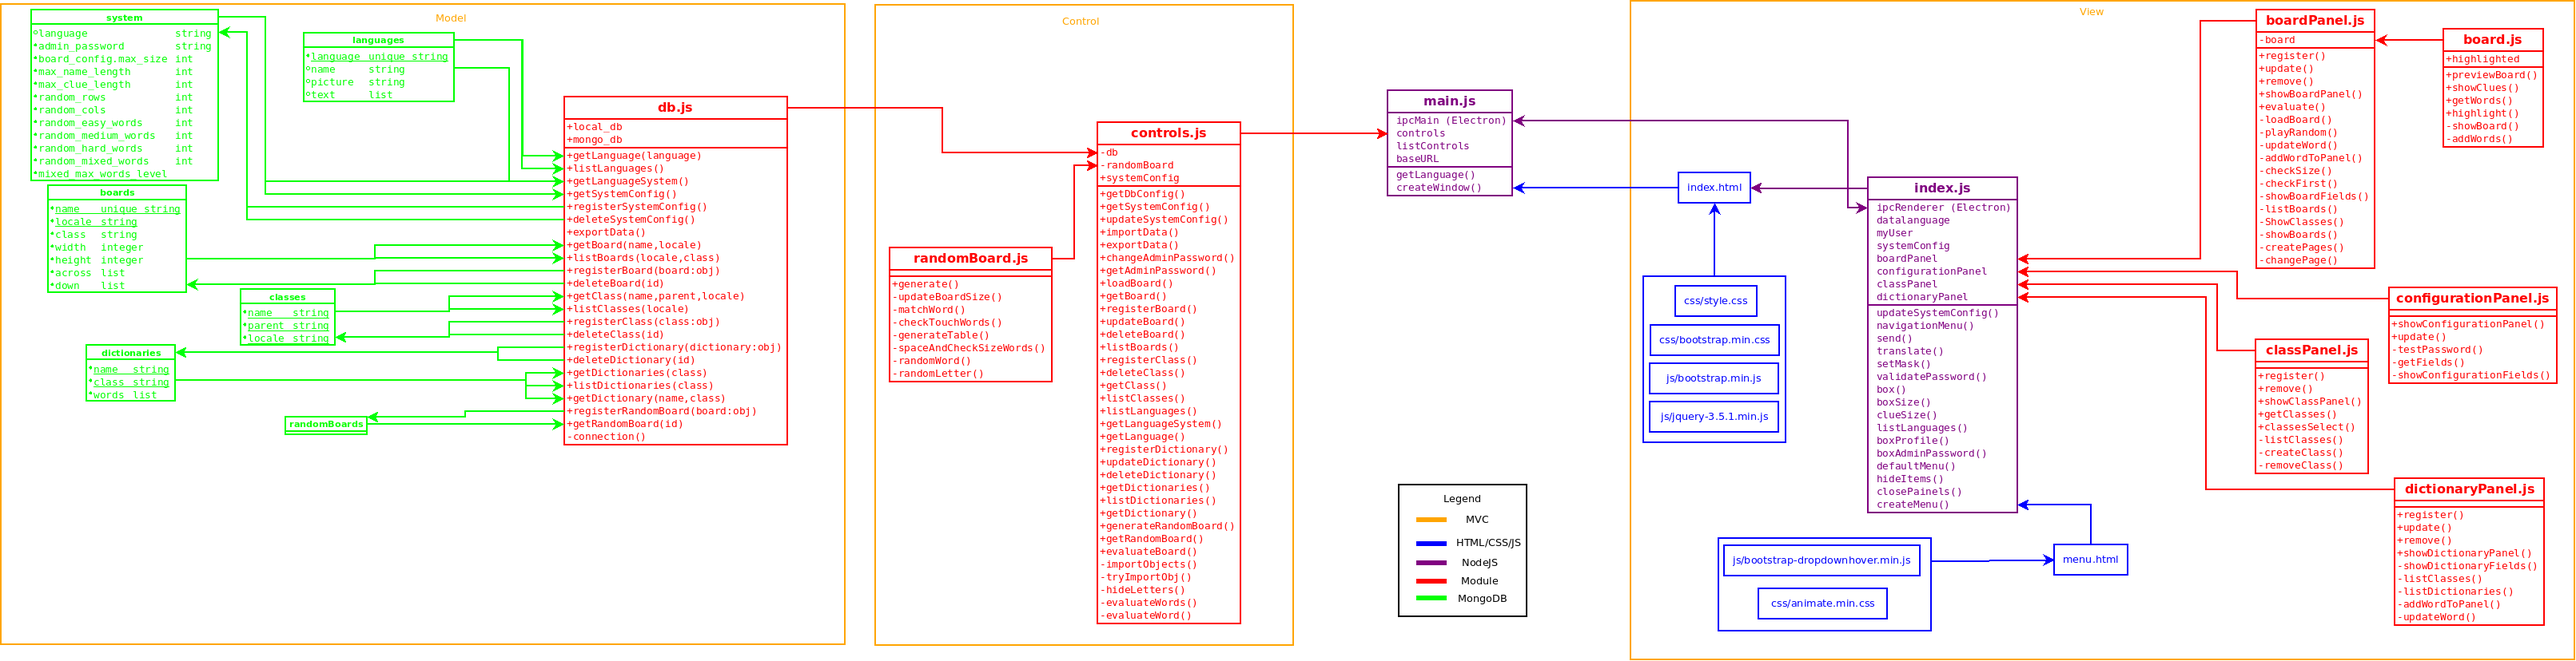
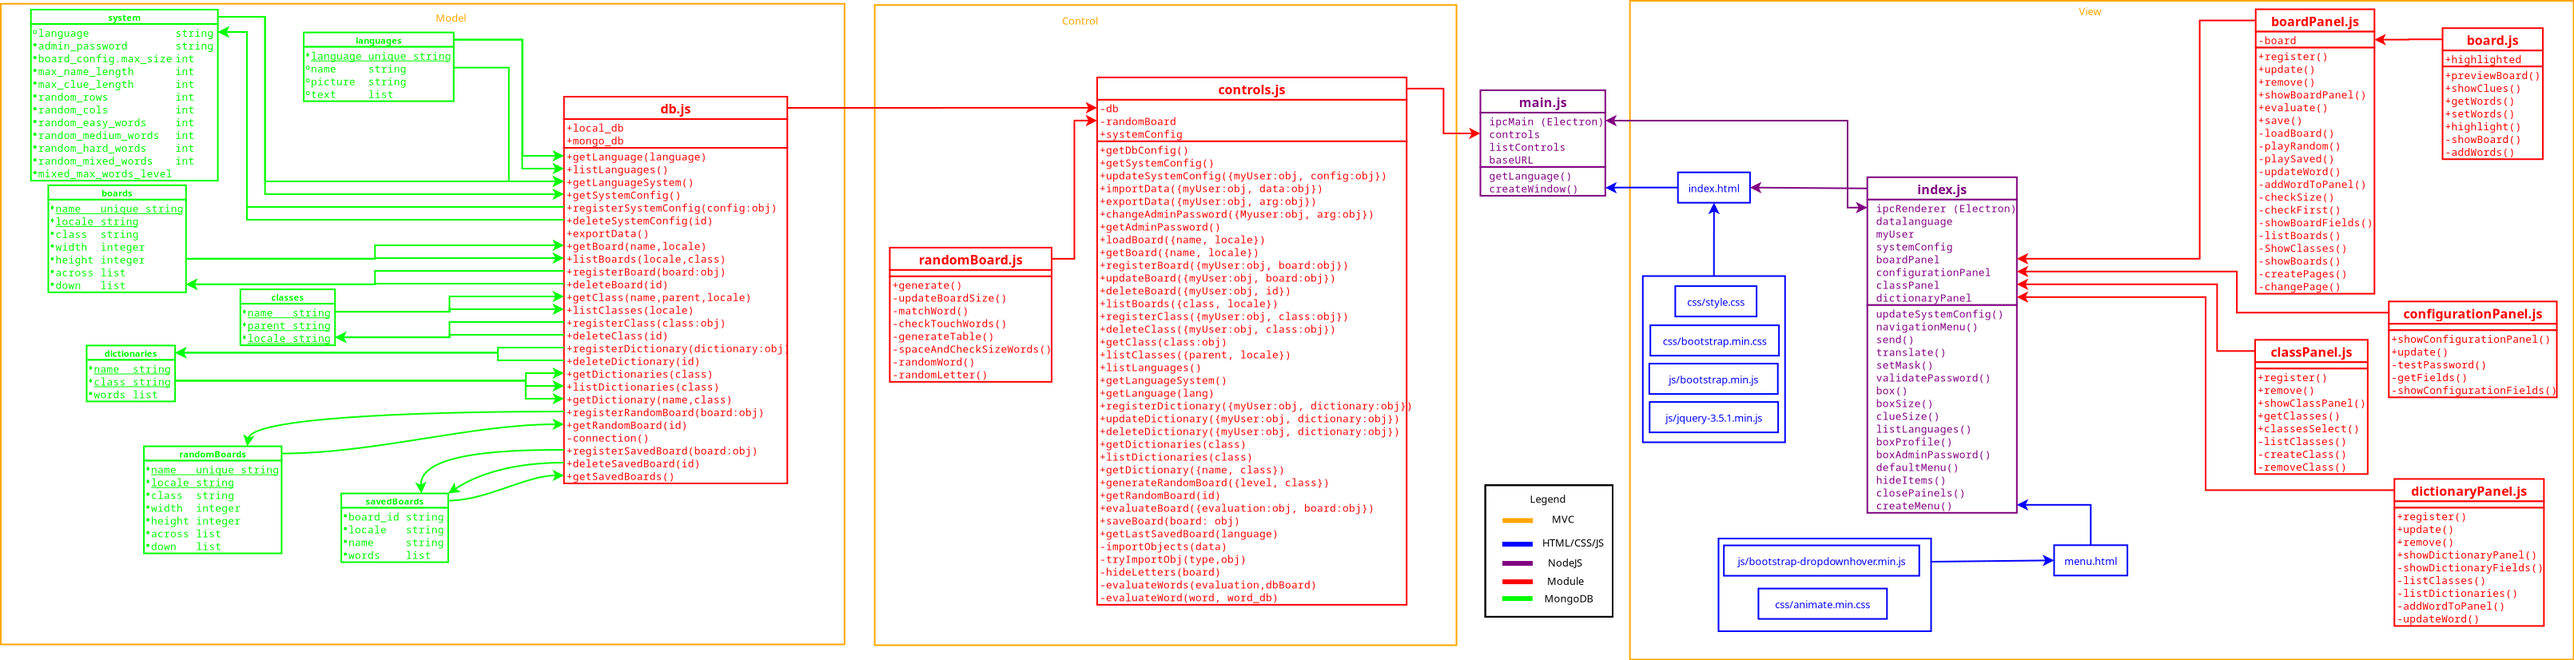
Version 1.1.0 updated with saved board to continue playing.

diff --git a/View/boardPanel.js b/View/boardPanel.js
@@ -1,3 +1,10 @@
+//TODO:
+//ao fechar tabuleiro ou sair do programa, salvar as palavras escritar para poder voltar a jogar posteriormente.
+
+//ao desistir de completar o tabuleiro, colocar a opção de exibir todas as palavras
+//reflexão: até que ponto o usuário é confiável e não vai usar este recurso para colar e se sabotar para tirar uma nota boa?
+//habilitar esta opção somente quando for registrar a nota no login do usuário?
+
 board = require('./board.js')
 
 module.exports = {
@@ -74,6 +81,10 @@ module.exports = {
   evaluate: () => {
     box(datalanguage['confirm'], datalanguage['askevaluate'], () => {
       board.getWords( (this_board) => {
+        for(w=this_board.words.length-1;w>0;w--)
+          if(typeof this_board.words[w].tick != undefined && this_board.words[w].tick == 'true')
+            this_board.words.splice(w, 1)
+
         ipcRenderer.send('evaluate-board', {"board": this_board, "evaluation": board.evaluation})
         ipcRenderer.once('evaluate-board', function(event, result){
           msg = result[0]
@@ -89,14 +100,23 @@ module.exports = {
           board.highlighted = 0
 
           //close if all words are correct
-          if(board.evaluation.correct_words.length == preview_board.total)
-            closePainels()
+          //if(board.evaluation.correct_words.length == preview_board.total)
+          //  closePainels()
 
           message = '<b>'+datalanguage['evaluationresult'].replace('{correct}', board.evaluation.correct_words.length).replace('{total}', preview_board.total)+'<br>'+datalanguage['score']
           +': '+board.evaluation.score+'</b><br/>'+datalanguage[msg]
           if(msg == 'tryagain' || msg == 'congratulations')
             box(datalanguage['evaluation'], message)
         })
+      })
+    })
+  },
+  save: (callback)=>{
+    board.getWords( (this_board)=>{
+      this_board.evaluation = board.evaluation
+      send('save-board', this_board, 'boardsaved', ()=>{
+        $('#box').remove()
+        callback()
       })
     })
   }
@@ -107,10 +127,10 @@ function showClasses(){
     classPanel.getClasses().then( (arvore) => {
       width = $('#boardPanel').width()/3
       arvore.items.forEach( (item) => {
-          div = $('<div/>', {'style': 'min-height:54px;margin-bottom:3px'}).attr('data-order', item.order).appendTo($('#items'))
-          $('<a/>', {'style': 'max-width:'+width+'px;white-space: pre-line'}).attr('class', 'btn btn-primary').attr('href', '#').text(item.num+'-'+item.name).attr('data-val', item.id).appendTo(div).click(function(){
-            showBoards($(this).attr('data-val'))
-          })
+        div = $('<div/>', {'style': 'min-height:54px;margin-bottom:3px'}).attr('data-order', item.order).appendTo($('#items'))
+        $('<a/>', {'style': 'max-width:'+width+'px;white-space: pre-line'}).attr('class', 'btn btn-primary').attr('href', '#').text(item.num+'-'+item.name).attr('data-val', item.id).appendTo(div).click(function(){
+          showBoards($(this).attr('data-val'))
+        })
       })
 
       //sorting classes
@@ -125,6 +145,17 @@ function showClasses(){
       $('<div/>', {'id': 'alertInfo'}).attr('class', 'alert alert-info').attr('style', 'font-weight: bold; text-align: center').html(datalanguage['selectclass']).appendTo($('#boardPanel'))
       createPages($('#items').children('div'), 'tableClasses')
       $('<input/>', {'id': 'pageClasses', 'type': 'hidden'}).val(1).appendTo($('#boardPanel'))
+      ipcRenderer.send('get-lastsavedboard', datalanguage['langLocale'])
+      ipcRenderer.once('get-lastsavedboard', (event, last_board) => {
+        total_words = last_board.across.length+last_board.down.length
+        if(typeof last_board.evaluation != 'undefined')
+          if(typeof last_board.evaluation.correct_words == 'undefined' || total_words > last_board.evaluation.correct_words.length){
+            box(datalanguage['confirm'], datalanguage['playlastboard'], function(){
+              playSaved(last_board)
+            })
+            $('#box .title').html($('#box .title').html().replace(datalanguage['confirm'], datalanguage['system']))
+          }
+      })
     })
 }
 
@@ -378,7 +409,7 @@ function showBoardFields(){
 
 //adding new fields to the creation panel for a new word
 function addWordToPanel(type, word){
-    w++;
+    w++
     if(word.number == 0){
       word.number = w
       preview_board[type].push(word)
@@ -431,7 +462,7 @@ function addWordToPanel(type, word){
         $('.tr-'+num).remove()
         index = preview_board[type].findIndex(x => x.number === num)
         if(index > -1)
-          preview_board[type].splice(index, 1);
+          preview_board[type].splice(index, 1)
         board.previewBoard()
       })
     })
@@ -515,7 +546,7 @@ function loadBoard(name, type){
   ipcRenderer.once(conn, (event, this_board) => {
     this_board.total = this_board.across.length+this_board.down.length
     preview_board = this_board
-    preview_board['oldname'] = $("#board option:selected" ).text()
+    preview_board['oldname'] = $("#board option:selected").text()
     if(type == 'play'){
       board.previewBoard()
       board.showClues(preview_board)
@@ -542,4 +573,19 @@ function playRandom(conf){
       $('#boxLevel .title input').click()
     }
   })
+}
+
+function playSaved(this_board){
+  $('#boardPanel').remove()
+  $('#evaluate').show()
+  saved = this_board.saved
+  //delete this_board.saved
+  preview_board = this_board
+  board.previewBoard()
+  board.showClues(preview_board)
+  clueSize()
+  board.evaluation = this_board.evaluation
+  //delete this_board.evaluation
+  board.setWords(saved)
+  $('#box .title input').click()
 }

diff --git a/View/board.js b/View/board.js
@@ -1,11 +1,10 @@
-//TODO: bloquear usuário de digitar espaço e traço no tabuleiro
-
 module.exports = {
   evaluation: {},
   highlighted: 0,
   //show the board preview in the creation panel
   previewBoard: () => {
     module.exports.evaluation = {}
+    preview_board.total = preview_board.across.length+preview_board.down.length
     showBoard(preview_board)
     addWords(preview_board)
   },
@@ -16,26 +15,44 @@ module.exports = {
     this_words = []
     for(w=1;w<=preview_board.total;w++){
       letters = ''
-      tick = false
       $('#board input').each(function(){
           if($(this).data('num') == w || $(this).data('num2') == w){
             letter = $(this).val()
+            if(letter == '')
+              letter = '*'
             for(l=0;l<special_letters.length;l++){
               letter = letter.replace(special_letters[l], normal_letters[l])
             }
             letters += letter
           }
       })
+      this_word = {"number": w, "word": letters}
       $('.game .clues ul li').each(function(){
         if($(this).attr('class') == 'tick' && $(this).data('num') == w)
-          tick = true
+          this_word.tick = 'true'
       })
-      this_word = {"number": w, "word": letters}
-      if(!tick)
-        this_words.push(this_word)
+      this_words.push(this_word)
     }
     this_board = {"id": preview_board.id, "name": preview_board.name, "locale": preview_board.locale, "words": this_words}
     callback(this_board)
+  },
+  setWords: (words)=>{
+    words.forEach((word) => {
+      if(word.word.length > 0)
+        $('#board input').each(function(){
+            if($(this).data('num') == word.number || $(this).data('num2') == word.number){
+              if(word.word[0] != '*' && word.word[0] != ' ' && word.word[0] != '-')
+                $(this).val(word.word[0])
+              word.word = word.word.substring(1)
+            }
+        })
+      if(typeof word.tick != undefined && word.tick == 'true')
+        module.exports.highlight(word.number, 'tick')
+    })
+    //remove any highlighted word
+    $('#board tr input.highlight').attr('class', '')
+    $('.game .clues ul li.highlight').attr('class', '')
+    board.highlighted = 0
   },
   //showing clues to the game
   showClues: (board) => {

diff --git a/main.js b/main.js
@@ -11,6 +11,8 @@ listControls = [
   {listen: 'register-board', control: controls.registerBoard},
   {listen: 'delete-board', control: controls.deleteBoard},
   {listen: 'update-board', control: controls.updateBoard},
+  {listen: 'save-board', control: controls.saveBoard},
+  {listen: 'get-lastsavedboard', control: controls.getLastSavedBoard},
   {listen: 'list-boards', control: controls.listBoards},
   {listen: 'register-class', control: controls.registerClass},
   {listen: 'delete-class', control: controls.deleteClass},
@@ -28,7 +30,6 @@ listControls = [
   {listen: 'get-systemconfig', control: controls.getSystemConfig},
   {listen: 'update-systemconfig', control: controls.updateSystemConfig},
   {listen: 'change-adminpassword', control: controls.changeAdminPassword}
-
 ]
 
 
@@ -163,8 +164,8 @@ function createWindow () {
   // and load the index.html of the app.
   mainWindow.loadFile('./View/index.html')
   mainWindow.webContents.on('did-finish-load', () => {
-    mainWindow.removeMenu()
-    mainWindow.setMenuBarVisibility(false)
+  mainWindow.removeMenu()
+  mainWindow.setMenuBarVisibility(false)
     controls.systemConfig.userDataPath = (app || remote.app).getPath('userData')
     controls.systemConfig.appPath = (app || remote.app).getAppPath()
     controls.getSystemConfig('', (config)=>{
@@ -182,10 +183,14 @@ function createWindow () {
   })
 
   // Open the DevTools.
+  devtools = new BrowserWindow()
+  mainWindow.webContents.setDevToolsWebContents(devtools.webContents)
+  mainWindow.webContents.openDevTools({ mode: 'detach' })
   //mainWindow.webContents.openDevTools()
 
 
 }
+app.commandLine.appendSwitch('disable-gpu-sandbox')
 
 // This method will be called when Electron has finished
 // initialization and is ready to create browser windows.

diff --git a/Control/controls.js b/Control/controls.js
@@ -752,6 +752,43 @@ module.exports = {
             callback(result)
           })
         })
+  },
+  saveBoard: (obj, callback)=>{
+    board = obj.arg
+    board.board_id = board.id
+    delete board.id
+    db.registerSavedBoard(board, (err, res)=>{
+      if (err) throw err
+      if(res.insertedCount == 1)
+        callback('boardsaved')
+      else
+        callback('savingboarderror')
+    })
+  },
+  getLastSavedBoard: (language, callback)=>{
+    db.getSavedBoards( (err, boards)=>{
+      if (err) throw err
+      for(l=boards.length-1;l>=0;l--){
+        last_board = boards[l]
+        if(typeof last_board != 'undefined' && typeof last_board.locale != undefined && last_board.locale == language)
+          break
+      }
+      if(l >= 0)
+        if(last_board.name == '#random#')
+          module.exports.getRandomBoard(last_board.board_id, (randomBoard)=>{
+            randomBoard.saved = last_board.words
+            randomBoard.evaluation = last_board.evaluation
+            randomBoard = hideLetters(randomBoard)
+            callback(randomBoard)
+          })
+        else
+          module.exports.getBoard({"name": last_board.name, "locale": last_board.locale}, (dbBoard)=>{
+            dbBoard.saved = last_board.words
+            dbBoard.evaluation = last_board.evaluation
+            dbBoard = hideLetters(dbBoard)
+            callback(dbBoard)
+          })
+    })
   }
 }
 

diff --git a/View/index.js b/View/index.js
@@ -13,7 +13,7 @@ var datalanguage
 var close
 var myUser={}
 var systemConfig
-var version = '1.0.2'
+var version = '1.1.0'
 
 window.onload = () => {
 
@@ -27,6 +27,12 @@ window.onload = () => {
     defaultMenu()
     translate()
     updateSystemConfig()
+  })
+
+  ipcRenderer.on('quit-save', (event)=>{
+    if($('#Function').html() == 'play' && !$('#boardPanel').html())
+      boardPanel.save()
+    ipcRenderer.send('quit-save')
   })
 
   ipcRenderer.once('change-adminpassword', (event) =>{
@@ -567,6 +573,7 @@ function createMenu(){
     $('#close').click(function(){
       if($('#Function').html() == 'play' && !$('#boardPanel').html())
         box(datalanguage['confirm'], datalanguage['askclose'], ()=> {
+          boardPanel.save( ()=>{})
           closePainels()
         })
       else
@@ -577,9 +584,16 @@ function createMenu(){
       box(datalanguage['about'], message)
     })
     $('#quit').click(function(){
-      ipcRenderer.send('quit')
+      if($('#Function').html() == 'play' && !$('#boardPanel').html())
+        box(datalanguage['confirm'], datalanguage['askclose'], ()=> {
+          boardPanel.save( ()=>{
+            ipcRenderer.send('quit')
+          })
+        })
+      else
+        ipcRenderer.send('quit')
     })
     listLanguages($('#systemLanguage ul'))
     defaultMenu()
-  });
+  })
 }

diff --git a/Model/db.js b/Model/db.js
@@ -115,6 +115,26 @@ module.exports = {
         }
       }], callback)
   },
+  registerSavedBoard: (board, callback) =>{
+    module.exports.mydb.connection('savedBoards', 'bulkWrite', [
+      {
+        insertOne: {
+          document: {
+            'board_id': board.board_id,
+            'locale': board.locale,
+            'name': board.name,
+            'words': board.words,
+            'evaluation': board.evaluation
+          }
+        }
+      }], callback)
+  },
+  deleteSavedBoard : (id, callback) => {
+    module.exports.mydb.connection('savedBoards', 'deleteOne', {"_id": id}, callback)
+  },
+  getSavedBoards : (callback) => {
+    module.exports.mydb.connection('savedBoards', 'find', {}, callback)
+  },
   getClass : (name, parent, locale, callback) => {
     module.exports.mydb.connection('classes', 'find', {"name": name, "parent": parent, "locale": locale}, callback)
   },

diff --git a/preload.js b/preload.js
@@ -1,9 +1,10 @@
 // All of the Node.js APIs are available in the preload process.
 // It has the same sandbox as a Chrome extension.
+
 window.addEventListener('DOMContentLoaded', () => {
   const replaceText = (selector, text) => {
     const element = document.getElementById(selector)
     if (element) element.innerText = text
   }
-  
+
 })

diff --git a/View/index.html b/View/index.html
@@ -23,7 +23,7 @@
         color: #fff;
       }
     </style>
-    <script>window.$ = window.jQuery = require('./js/jquery-3.5.1.min.js');</script>
+    <script>window.$ = window.jQuery = require('./js/jquery-3.5.1.min.js')</script>
     <script src="js/bootstrap.min.js"></script>
     <title data-translate="crosswords"></title>
   </head>

diff --git a/README.md b/README.md
@@ -4,6 +4,11 @@ Version 1.0.2
 - Bug when generating random boards crossing spaces and letters fixed.
 - Bug allowing spaces and traces when playing boards fixed.
 
+Version 1.1
+- Ask confirmation on click the quit button when playing a board
+- Save the filled board when closing the board or quitting the app
+- User may play the latest board if it's not completed
+
 This software was created to encourage students to study playing a crossword game.
 
 Features included:
